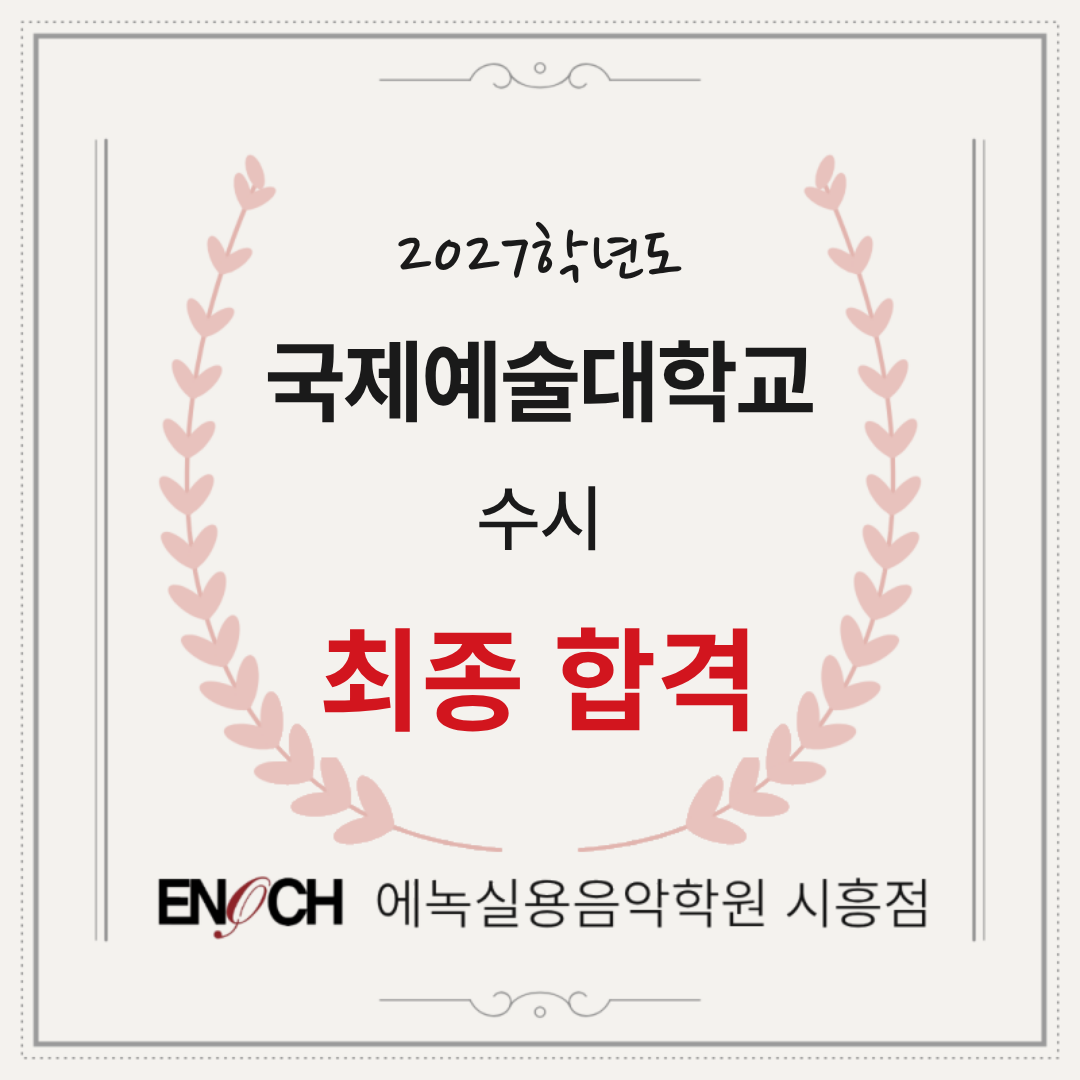
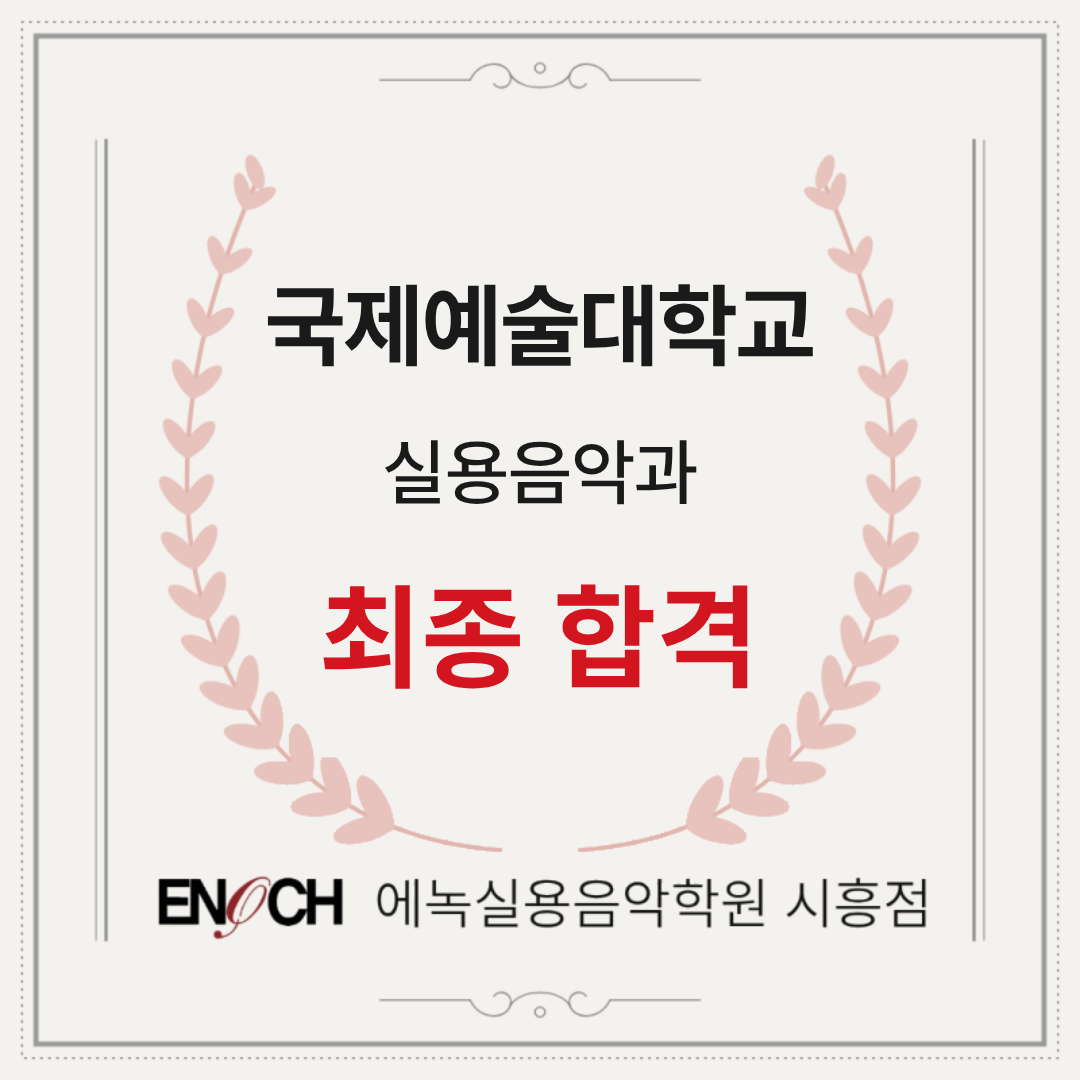
국제예대 합격: 문구를 국제예술대학교 / 실용음악과 / 최종 합격으로
Claude-Session: https://claude.ai/code/session_01HGbZvgMeYrbU7mY8bwfjyb

Changed region(s): [[0.2444, 0.2139, 0.7639, 0.7028], [0.3056, 0.5194, 0.4889, 0.7028]]

diff --git a/output/합격_국제예대_수시/poster.html b/output/합격_국제예대_수시/poster.html
@@ -8,11 +8,10 @@
 body{background:url(base.png) 0 0/800px 800px;position:relative;color:#1a1a1a}
 .l{position:absolute;left:0;right:0;text-align:center;white-space:nowrap}
 .y{top:152px;font-family:'Nanum Pen Script';font-size:64px;letter-spacing:.02em}
-.s{top:242px;font-family:PB;font-size:68px;letter-spacing:-.01em}
-.d{top:352px;font-family:PM;font-size:54px}
-.r{top:452px;font-family:PB;font-size:86px;color:#D2151E;letter-spacing:.02em}
+.s{top:200px;font-family:PB;font-size:68px;letter-spacing:-.01em}
+.d{top:318px;font-family:PM;font-size:54px}
+.r{top:420px;font-family:PB;font-size:86px;color:#D2151E;letter-spacing:.02em}
 </style>
-<div class="l y">2027학년도</div>
 <div class="l s">국제예술대학교</div>
-<div class="l d">수시</div>
+<div class="l d">실용음악과</div>
 <div class="l r">최종 합격</div>
